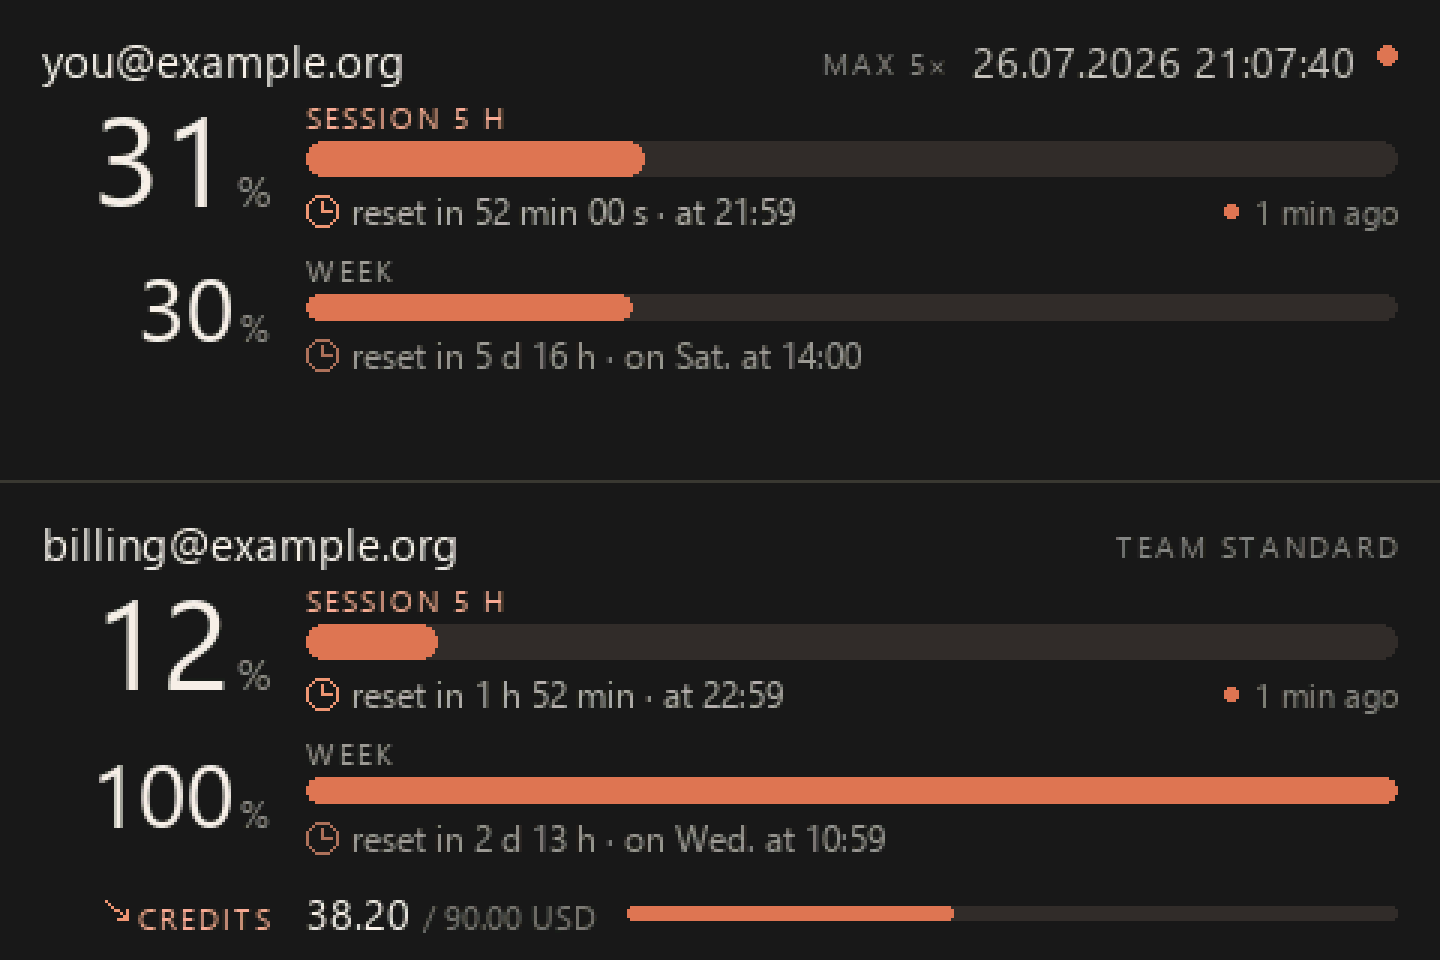
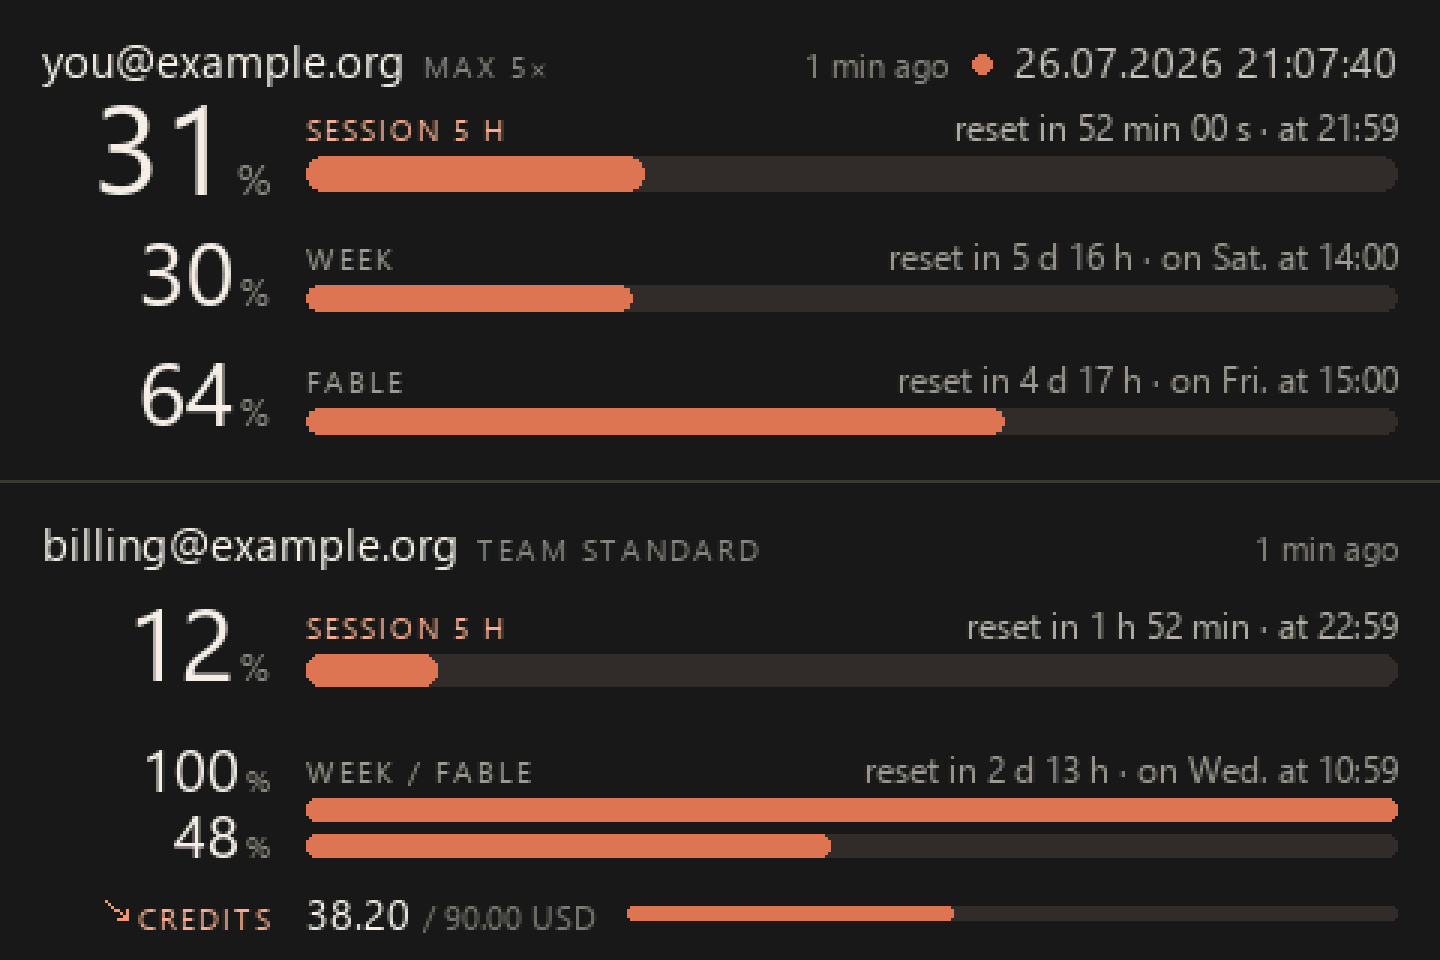
Docs: the handout shows the band as it is drawn now
The three band images predate every change in this branch -- the reading age moved
into the header, the plan joined the account name, the reset caption moved onto the
label line, the clock glyph went, and the rows now share out the band's height. The
README's front page was showing a screen that no longer exists.

bands-no-alert.png is regenerated from the "scoped" scene rather than "base", so
the front page shows what the panel can now do: three rungs on the top account, and
the glued weekly pair with credits on the bottom one -- the densest band there is.
The two marker images stay on "base"; they exist to show the alert marker, and a
denser band would only get in the way of that.

All three were read with eyes before committing, as the publication gate requires
of images: the accounts are the invented example.org ones and the credit amounts
are the rescaled fixtures.

panel/README gains the section that was missing entirely -- what a band carries,
how the scoped window is picked and labelled, and the glue_aligned_weekly_pair
switch with the reason its tolerance cannot be simplified away.

The alert card images and the web UI screenshots are untouched, because neither
changed.

diff --git a/panel/README.md b/panel/README.md
@@ -240,6 +240,43 @@ lost frame is harmless.
   the full `n` bytes, so later cards and pings would sit stuck in the buffer,
   and the panel would be stuck on the first frame **looking alive**.
 
+## What a band carries
+
+A band does not have one fixed set of rows. It carries the 5-hour session, the
+weekly window, and then whatever the account actually has:
+
+- **A model's own weekly limit** — Fable today — gets a rung of its own. It is
+  picked by `kind == "weekly_scoped"` and never by a name, and its label is
+  derived from the data (`view.scoped_label`), so the model that ships next
+  appears on the glass without a new build. Where an account has several, the
+  highest one wins: the rung answers "what stops me first", and the rest are
+  diagnostics, which stay in the web UI.
+- **Credits**, once a weekly pool is exhausted.
+
+With both at once the band carries four things, and the two weekly windows then
+share ONE row of two tracks under one label and one countdown — `WEEK / FABLE`.
+Not to save room (three separate rungs and the credits fit on both canvases, 151 px
+of the narrow band's 160) but to read: the two are the same seven days at two
+scopes, and side by side, how much is the week and how much is the model is one
+glance instead of a jump down the band.
+
+| key | default | off |
+|---|---|---|
+| `glue_aligned_weekly_pair` | `true` | each weekly window keeps a rung of its own |
+
+**`aligned` is not decoration.** The shared row has one countdown, so it is only
+honest while both windows close at the same instant. When they drift apart the
+pair comes back apart by itself, whatever the switch says — the setting can
+withhold the gluing, never force it.
+
+The comparison carries a tolerance, and must keep it: Anthropic's boundary
+wobbles, and the two windows are reported a second apart as often as not
+("16:00:00" from one series, "15:59:59" from the other). Exact equality was tried
+and split every pair on the panel. The threshold is the backend's own
+`RESET_WINDOW_EPS_SEC`, for the reasoning in `parsing.same_reset_window`. A window
+with **no** boundary counts as aligned — Anthropic gives none at 0 % usage, so that
+is an absence and not a second deadline.
+
 ## A blocked Claude Code session
 
 The panel shows not only usage but also the fact that **Claude is waiting on
@@ -355,7 +392,7 @@ python tools/render-png.py --alert many   --zoom 3 --rgb565 --out ../docs/handou
 python tools/render-png.py --alert solo --flood --zoom 3 --rgb565 --out ../docs/handout/card-flooded.png
 python tools/render-png.py --marker upper --zoom 3 --rgb565 --out ../docs/handout/bands-marker-upper.png
 python tools/render-png.py --marker lower --zoom 3 --rgb565 --out ../docs/handout/bands-marker-lower.png
-python tools/render-png.py                --zoom 3 --rgb565 --out ../docs/handout/bands-no-alert.png
+python tools/render-png.py --scene scoped --zoom 3 --rgb565 --out ../docs/handout/bands-no-alert.png
 ```
 
 If an alert got stuck, the escape hatch is on the machine running the session,

diff --git a/README.md b/README.md
@@ -3,7 +3,7 @@
 **Your Claude limit on a small screen next to the monitor.** Always lit, always current — no tab
 to open, no page to refresh, nothing to click. You just glance at it.
 
-![The desk panel: two accounts, session and week, credits, time to reset](docs/handout/bands-no-alert.png)
+![The desk panel: two accounts, the session, the week, a model's own weekly window, credits, time to reset](docs/handout/bands-no-alert.png)
 
 ## 🖥 The panel is the whole point
 
@@ -14,6 +14,8 @@ whole loop: the number is simply in your field of view, the way a clock is.
 What is on the glass, per account:
 
 - ⏳ **The 5-hour session and the weekly window,** each as a percentage and a bar.
+- 🧩 **A model's own weekly limit** — Fable today — when the account has one, on a rung of its
+  own. It is picked by kind and labelled from the data, so the next model appears by itself.
 - 🕐 **A live countdown to the reset** — seconds under an hour, so "wait it out or push on?"
   is a look, not a calculation.
 - 💳 **Credits,** once a weekly pool is exhausted and the work starts costing money.
